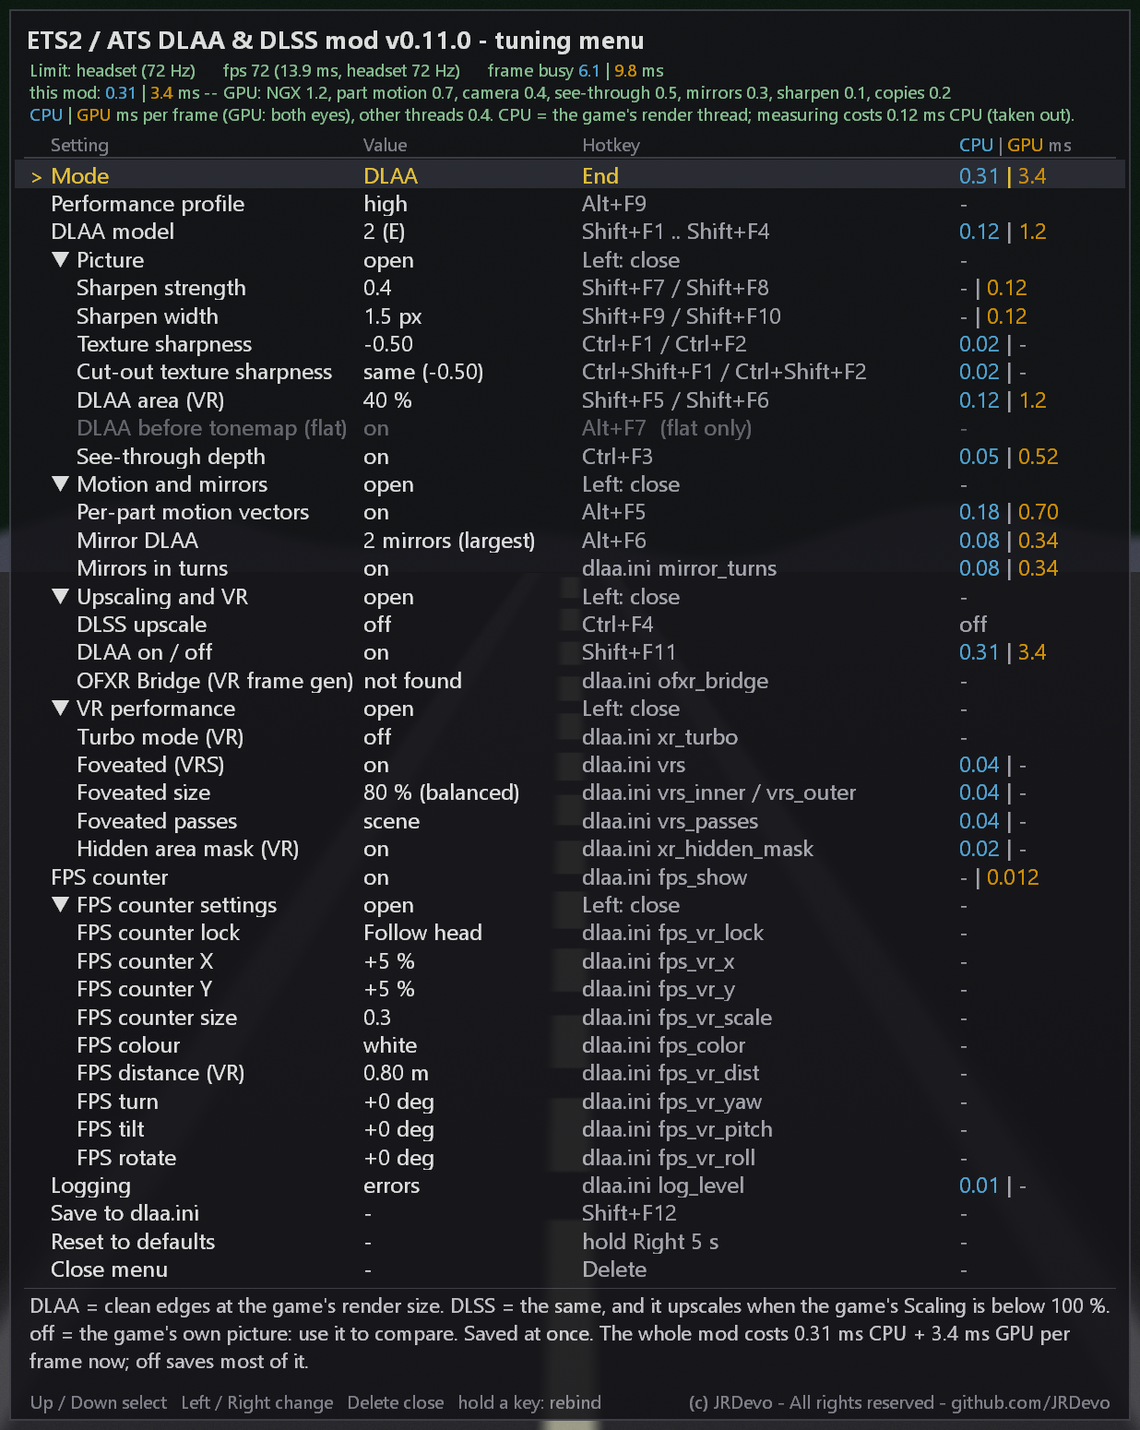
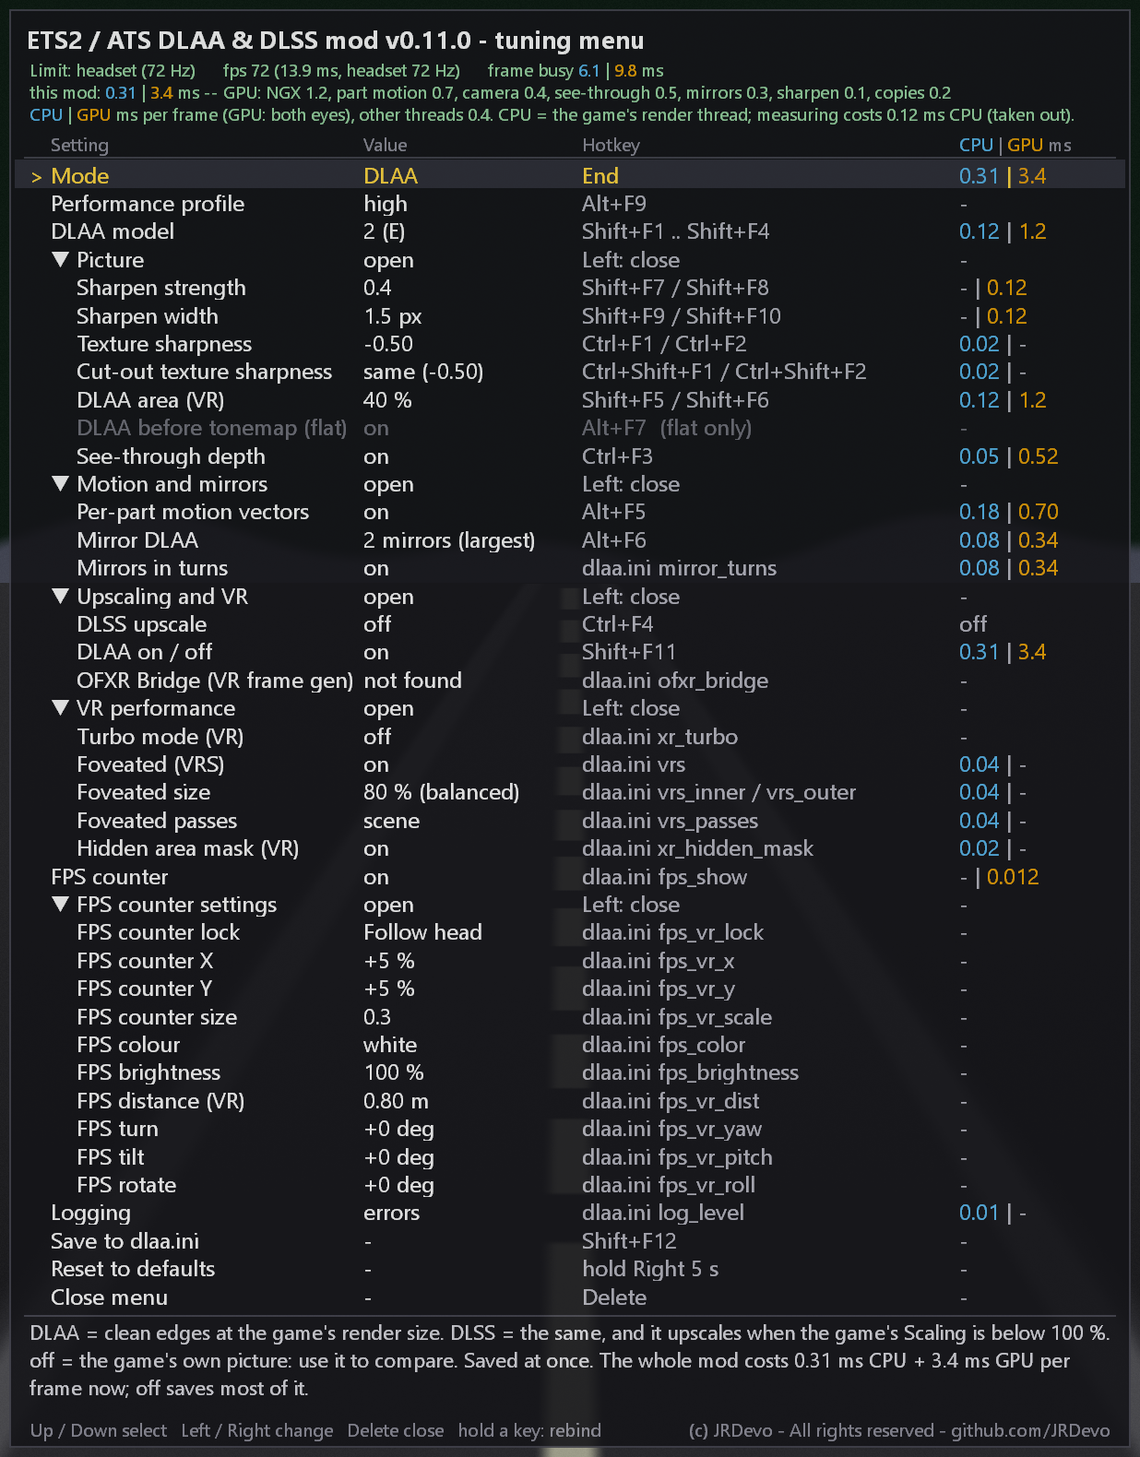
Phase 48: fps box brightness (fps_brightness 10..100 %)

diff --git a/src/inject.cpp b/src/inject.cpp
@@ -877,6 +877,7 @@ int      g_fpsVrLock = 0;
 // head-following box's extra stereo shift), fps_vr_yaw / fps_vr_pitch / fps_vr_roll (degrees: the VR box's own turn on top of
 // its normal facing; FpsPose::TurnQuat). The menu's FPS colour / distance / turn / tilt / rotate rows; saved with the fps_* keys.
 int      g_fpsColor = 0;
+int      g_fpsBright = FpsPose::kBrightDefault;   // phase 48: dlaa.ini fps_brightness 10..100 % (the colour * pct / 100)
 int      g_fpsVrDist = FpsPose::kDistDefault;
 int      g_fpsVrYaw = 0, g_fpsVrPitch = 0, g_fpsVrRoll = 0;
 bool     g_fpsExplicit = false;          // an fps_* value was changed in the menu -> SaveSettings writes the 13 fps_* keys
@@ -2906,6 +2907,7 @@ void SaveSettings(uint64_t n) {
         snprintf(add("fps_vr_scale"), sizeof(kv[0].val), "%.1f", (double)g_fpsVrScale);
         snprintf(add("fps_vr_lock"), sizeof(kv[0].val), "%d", g_fpsVrLock);   // v0.10.3 phase 28
         snprintf(add("fps_color"), sizeof(kv[0].val), "%d", g_fpsColor);      // phase 44
+        snprintf(add("fps_brightness"), sizeof(kv[0].val), "%d", g_fpsBright);   // phase 48
         snprintf(add("fps_vr_dist"), sizeof(kv[0].val), "%d", g_fpsVrDist);
         snprintf(add("fps_vr_yaw"), sizeof(kv[0].val), "%d", g_fpsVrYaw);
         snprintf(add("fps_vr_pitch"), sizeof(kv[0].val), "%d", g_fpsVrPitch);
@@ -2939,12 +2941,12 @@ void SaveSettings(uint64_t n) {
         snprintf(menuW, sizeof(menuW), " -- menu panel: menu_x=%d menu_y=%d menu_scale=%.1f menu_vr_x=%d menu_vr_y=%d menu_vr_scale=%.1f "
                  "menu_vr_depth=%d menu_vr_dist=%d menu_vr_face=%d", g_menuX, g_menuY, (double)g_menuScale, g_menuVrX, g_menuVrY,
                  (double)g_menuVrScale, g_menuVrDepth, g_menuVrDist, g_menuVrFace);
-    char fpsW[288] = "";                                  // (phase 44: was 160, + fps_color / fps_vr_dist / the turn)
+    char fpsW[320] = "";                                  // (phase 44: was 160, + fps_color / fps_vr_dist / the turn)
     if (g_fpsExplicit)
         snprintf(fpsW, sizeof(fpsW), " -- fps box: fps_show=%d fps_x=%d fps_y=%d fps_scale=%.1f fps_vr_x=%d fps_vr_y=%d fps_vr_scale=%.1f "
-                 "fps_vr_lock=%d fps_color=%d (%ls) fps_vr_dist=%d fps_vr_yaw=%d fps_vr_pitch=%d fps_vr_roll=%d", g_fpsShow ? 1 : 0,
+                 "fps_vr_lock=%d fps_color=%d (%ls) fps_brightness=%d fps_vr_dist=%d fps_vr_yaw=%d fps_vr_pitch=%d fps_vr_roll=%d", g_fpsShow ? 1 : 0,
                  g_fpsX, g_fpsY, (double)g_fpsScale, g_fpsVrX, g_fpsVrY, (double)g_fpsVrScale, g_fpsVrLock, g_fpsColor,
-                 FpsPose::ColorOf(g_fpsColor).name, g_fpsVrDist, g_fpsVrYaw, g_fpsVrPitch, g_fpsVrRoll);
+                 FpsPose::ColorOf(g_fpsColor).name, g_fpsBright, g_fpsVrDist, g_fpsVrYaw, g_fpsVrPitch, g_fpsVrRoll);
     char notW[128];
     snprintf(notW, sizeof(notW), "%s%s%s%s%s", g_profExplicit[PK_PRESET] ? "" : " dlss_preset", g_profExplicit[PK_AREA] ? "" : " dlaa_area",
              g_profExplicit[PK_MIRROR_DLAA] ? "" : " mirror_dlaa", mirVrW ? "" : " mirror_vr_mode", mirFlatW ? "" : " mirror_flat_mode");
@@ -15327,6 +15329,7 @@ enum MenuRowId {
     MR_FPSLOCK,                                           // v0.10.3 phase 28: VR fps box follows the head / fixed in the cab
     MR_FPSX, MR_FPSY, MR_FPSSIZE,
     MR_FPSCOLOR,                                          // phase 44: fps box colour (dlaa.ini fps_color)
+    MR_FPSBRIGHT,                                         // phase 48: fps box brightness (dlaa.ini fps_brightness)
     MR_FPSDIST,                                           // phase 44: VR distance (dlaa.ini fps_vr_dist)
     MR_FPSYAW, MR_FPSPITCH, MR_FPSROLL,                   // phase 44: VR turn / tilt / rotate (dlaa.ini fps_vr_yaw / _pitch / _roll)
     MR_LOG,                                               // phase 39: Logging (dlaa.ini log_level) + what logging costs
@@ -15343,7 +15346,7 @@ constexpr MenuGroupDef kMenuGroups[] = {
     { MR_UPGRP,    MR_OFXR,     L"Upscaling and VR" },
     { MR_VRPGRP,   MR_HMASK,    L"VR performance" },
     { MR_PANELGRP, MR_MENUKEYS, L"Panel settings" },
-    { MR_FPSGRP,   MR_FPSROLL,  L"FPS counter settings" },     // phase 44: last row MR_FPSSIZE -> MR_FPSROLL
+    { MR_FPSGRP,   MR_FPSROLL,  L"FPS counter settings" },     // phase 44: last row MR_FPSSIZE -> MR_FPSROLL (phase 48: + FPS brightness inside)
 };
 constexpr int kMenuGroupCount = (int)(sizeof(kMenuGroups) / sizeof(kMenuGroups[0]));
 static_assert(MR_PICGRP + 1 == MR_SHARP && MR_FWD + 1 == MR_MOTGRP && MR_MOTGRP + 1 == MR_DRAWIDS && MR_MIRTURNS + 1 == MR_UPGRP &&
@@ -15355,7 +15358,7 @@ static_assert(MR_SHARP < MR_WIDTH && MR_WIDTH < MR_LOD && MR_LOD < MR_LODCUT && 
               MR_TURBO < MR_VRS && MR_VRS < MR_VRSSIZE && MR_VRSSIZE < MR_VRSPASS && MR_VRSPASS < MR_HMASK &&
               MR_POSX < MR_POSY && MR_POSY < MR_SIZE && MR_SIZE < MR_DEPTH && MR_DEPTH < MR_FACE && MR_FACE < MR_MENUKEYS &&
               MR_FPSLOCK < MR_FPSX && MR_FPSX < MR_FPSY && MR_FPSY < MR_FPSSIZE && MR_FPSSIZE < MR_FPSCOLOR &&
-              MR_FPSCOLOR < MR_FPSDIST && MR_FPSDIST < MR_FPSYAW && MR_FPSYAW < MR_FPSPITCH && MR_FPSPITCH < MR_FPSROLL,
+              MR_FPSCOLOR < MR_FPSBRIGHT && MR_FPSBRIGHT < MR_FPSDIST && MR_FPSDIST < MR_FPSYAW && MR_FPSYAW < MR_FPSPITCH && MR_FPSPITCH < MR_FPSROLL,
               "tuning menu: group children out of order");
 const wchar_t* const kMenuDesc[] = {
     // v0.10.0: every row = what it does, when a player would change it, what it costs. The panel shows 3 lines of about 105
@@ -15450,6 +15453,8 @@ const wchar_t* const kMenuDesc[] = {
     // phase 44 (MR_FPSCOLOR, MR_FPSDIST, MR_FPSYAW, MR_FPSPITCH, MR_FPSROLL)
     L"The colour of the fps box's text: 20 colours, each with an outline so it reads on any picture (black on white = dark text, "
     L"white outline). Flat and VR. No cost.",
+    L"How bright the fps box is, 10 - 100 %: 100 = the colour as it is, lower dims the text (the outline stays) toward black. Use it "
+    L"to tone the counter down at night or in the headset. Flat and VR. No cost.",
     L"VR only, so greyed in flat. How far away the fps box floats, 0.30 - 3.00 m. It keeps the same size in your view at every "
     L"distance; only the depth changes. Put it near the depth you look at to read it without refocusing. No cost.",
     L"VR only, so greyed in flat. Turns the fps box left / right on itself, in degrees (+ = its face turns to the right). Use it "
@@ -15498,7 +15503,7 @@ float g_menuVrBuild = 0.0f;                               // VR: panel scale of 
 float g_fpsVrBuild  = 0.0f;                               // VR: fps box scale of eye 0 (the same for the box; 0 = none yet)
 // phase 44: the fps box colours (fps_color) into the widget cache before each DrawWidget (a compare there; a change rebuilds once)
 inline void FpsSyncColor() {
-    const FpsPose::Color& c = FpsPose::ColorOf(g_fpsColor);
+    const FpsPose::Color c = FpsPose::Dimmed(FpsPose::ColorOf(g_fpsColor), g_fpsBright);   // phase 48: + brightness (the widget cache compares the colours)
     TuningMenu::SetWidgetColors(c.tr, c.tg, c.tb, c.lr, c.lg, c.lb);
 }
 bool  g_fpsMoved    = false;                              // an fps box row changed since the menu was opened (close line)
@@ -15834,6 +15839,7 @@ void ResetSettings(uint64_t n) {
     g_fpsVrX = 0; g_fpsVrY = -25; g_fpsVrScale = kFpsVrScaleDefault;
     g_fpsVrLock = 0;                                      // v0.10.3 phase 28: follows the headset again
     g_fpsColor = 0;                                       // phase 44: white, 0.8 m, not turned
+    g_fpsBright = FpsPose::kBrightDefault;                // phase 48
     g_fpsVrDist = FpsPose::kDistDefault;
     g_fpsVrYaw = g_fpsVrPitch = g_fpsVrRoll = 0;
     FpsVrLockReset();
@@ -15871,6 +15877,7 @@ void ResetSettings(uint64_t n) {
         "menu_vr_dist",                                                                                 // phase 29b
         "fps_show", "fps_x", "fps_y", "fps_scale", "fps_vr_x", "fps_vr_y", "fps_vr_scale", "fps_vr_lock",   // phase 28: + fps_vr_lock
         "fps_color", "fps_vr_dist", "fps_vr_yaw", "fps_vr_pitch", "fps_vr_roll",                        // phase 44
+        "fps_brightness",                                                                               // phase 48
         "xr_turbo",                                                                                     // phase 30
         "vrs", "vrs_inner", "vrs_outer",                                                                // phase 34
         "vrs_passes",                                                                                   // phase 42
@@ -15891,7 +15898,7 @@ void ResetSettings(uint64_t n) {
             "perf_profile = high mv_fwd_depth = 1 menu_x = 2 menu_y = 8 "
             "menu_scale = 1.0 menu_vr_x = 0 menu_vr_y = -5 menu_vr_scale = 1.0 menu_vr_depth = 12 menu_vr_dist = 100 menu_vr_face = 1 "
             "fps_show = 0 "
-            "fps_x = 1 fps_y = 1 fps_scale = 1.0 fps_vr_x = 0 fps_vr_y = -25 fps_vr_scale = %.1f fps_vr_lock = 0 fps_color = 0 (white) fps_vr_dist = 80 fps_vr_yaw = 0 fps_vr_pitch = 0 fps_vr_roll = 0 xr_turbo = 0 vrs = 0 vrs_inner = 55 vrs_outer = 80 vrs_passes = 0 xr_hidden_mask = 0 log_level = %d (%s) -- profile: %s -- "
+            "fps_x = 1 fps_y = 1 fps_scale = 1.0 fps_vr_x = 0 fps_vr_y = -25 fps_vr_scale = %.1f fps_vr_lock = 0 fps_color = 0 (white) fps_brightness = 100 fps_vr_dist = 80 fps_vr_yaw = 0 fps_vr_pitch = 0 fps_vr_roll = 0 xr_turbo = 0 vrs = 0 vrs_inner = 55 vrs_outer = 80 vrs_passes = 0 xr_hidden_mask = 0 log_level = %d (%s) -- profile: %s -- "
             "dlaa.ini: %d keys removed (hotkeys and other lines kept)", (unsigned long long)n, g_dlaaOn.load() ? "DLSS" : "off",
             (double)kFpsVrScaleDefault, LogLevel(), g_logDebugKey ? "no key: debug = 1 in dlaa.ini" : "no key", changed, kNKeys);
         BeepSeq b;                                        // success: rising two-tone 600 -> 900 Hz, 120 ms each (as SaveSettings)
@@ -17181,6 +17188,8 @@ void MenuBuildPanel(TuningMenu::Panel& p) {
     // phase 44: colour (flat and VR), VR distance and the VR turn
     MenuRow(p, MR_FPSCOLOR, L"FPS colour", "dlaa.ini fps_color", nullptr, false);
     swprintf(p.rows[MR_FPSCOLOR].value, kV, L"%ls", FpsPose::ColorOf(g_fpsColor).name);
+    MenuRow(p, MR_FPSBRIGHT, L"FPS brightness", "dlaa.ini fps_brightness", nullptr, false);   // phase 48
+    swprintf(p.rows[MR_FPSBRIGHT].value, kV, L"%d %%", g_fpsBright);
     MenuRow(p, MR_FPSDIST, L"FPS distance (VR)", "dlaa.ini fps_vr_dist", vr ? nullptr : "VR only", !vr);
     swprintf(p.rows[MR_FPSDIST].value, kV, L"%.2f m", (double)g_fpsVrDist / 100.0);
     MenuRow(p, MR_FPSYAW, L"FPS turn", "dlaa.ini fps_vr_yaw", vr ? nullptr : "VR only", !vr);
@@ -17377,6 +17386,11 @@ void MenuChange(int row, int dir, bool repeat, uint64_t n) {
         g_fpsExplicit = g_fpsMoved = true;
         Log("fps box colour: %d = %ls (fps_color, tuning menu, Present #%llu)", g_fpsColor, FpsPose::ColorOf(g_fpsColor).name,
             (unsigned long long)n);
+        break;
+    case MR_FPSBRIGHT:                                      // phase 48: 10 % steps, live (a fresh press each: not a stepRow)
+        g_fpsBright = FpsPose::StepBright(g_fpsBright, dir);
+        g_fpsExplicit = g_fpsMoved = true;
+        Log("fps box brightness: %d %% (fps_brightness, tuning menu, Present #%llu)", g_fpsBright, (unsigned long long)n);
         break;
     case MR_FPSDIST:                                        // phase 44: 5 cm steps (also flat: kept for VR; the row is greyed)
         g_fpsVrDist = FpsPose::ClampI(g_fpsVrDist + 5 * dir, FpsPose::kDistMin, FpsPose::kDistMax);
@@ -20244,6 +20258,7 @@ void LoadConfig() {
             if (!strcmp(key, "vrs_passes"))         { g_vrsPasses = v != 0 ? 1 : 0; g_vrsPassesExplicit = true; continue; }   // phase 42
             // phase 44: the fps box colour / VR distance / VR turn (outside the else-if chain: C1061)
             if (!strcmp(key, "fps_color"))          { g_fpsColor = FpsPose::ClampColor(v); continue; }
+            if (!strcmp(key, "fps_brightness"))     { g_fpsBright = FpsPose::ClampBright(v); continue; }   // phase 48
             if (!strcmp(key, "fps_vr_dist"))        { g_fpsVrDist = FpsPose::ClampI(v, FpsPose::kDistMin, FpsPose::kDistMax); continue; }
             if (!strcmp(key, "fps_vr_yaw"))         { g_fpsVrYaw = FpsPose::ClampI(v, -FpsPose::kYawMax, FpsPose::kYawMax); continue; }
             if (!strcmp(key, "fps_vr_pitch"))       { g_fpsVrPitch = FpsPose::ClampI(v, -FpsPose::kPitchMax, FpsPose::kPitchMax); continue; }
@@ -20702,14 +20717,14 @@ void LoadConfig() {
                         "(menu_vr_depth / menu_vr_face; menu_vr_dist unused)",
         g_bindHoldMs);
     Log("fps box (v0.10.0): fps_show=%d (%s), flat fps_x=%d fps_y=%d fps_scale=%.1f, VR fps_vr_x=%d fps_vr_y=%d fps_vr_scale=%.1f "
-        "fps_vr_lock=%d (%s); phase 44: fps_color=%d (%ls) fps_vr_dist=%d cm fps_vr_yaw=%d fps_vr_pitch=%d fps_vr_roll=%d deg (the "
+        "fps_vr_lock=%d (%s); phase 44: fps_color=%d (%ls) fps_brightness=%d %% fps_vr_dist=%d cm fps_vr_yaw=%d fps_vr_pitch=%d fps_vr_roll=%d deg (the "
         "tuning menu's FPS counter rows change them)", g_fpsShow ? 1 : 0,
         g_fpsShow ? "on: shown also while the menu is closed" : "off", g_fpsX, g_fpsY, (double)g_fpsScale, g_fpsVrX, g_fpsVrY,
         (double)g_fpsVrScale, g_fpsVrLock, g_fpsVrLock == 2 ? "VR: ATTACHED TO THE VEHICLE (phase 47: drawn in, placed from a cab "
                                                          "draw's MVP on the GPU), fps_vr_x / fps_vr_y = yaw / pitch degrees at "
                                                          "fps_vr_dist at the lock-on" : g_fpsVrLock ? "VR: fixed in the play space, "
                                                          "fps_vr_x / fps_vr_y = yaw / pitch degrees at fps_vr_dist" : "VR: follows the headset",
-        g_fpsColor, FpsPose::ColorOf(g_fpsColor).name, g_fpsVrDist, g_fpsVrYaw, g_fpsVrPitch, g_fpsVrRoll);
+        g_fpsColor, FpsPose::ColorOf(g_fpsColor).name, g_fpsBright, g_fpsVrDist, g_fpsVrYaw, g_fpsVrPitch, g_fpsVrRoll);
     // v0.10.0 phase 6b: the vote participation of instanced / no-MVP draws follows mv_drawid_instanced (default 1, even when the
     // key is absent) -- set it here, after the whole ini is parsed, so both the replay and the vote agree.
     DrawIdMv::SetInstanced(g_didInstancedCfg);

diff --git a/tests/fps_pose_test.cpp b/tests/fps_pose_test.cpp
@@ -36,6 +36,25 @@ int main() {
         CHECK(StepColor(19, 1) == 0 && StepColor(0, -1) == 19 && StepColor(5, 1) == 6, "StepColor wraps");
         CHECK(ClampColor(-1) == 0 && ClampColor(25) == 19 && ClampColor(7) == 7, "ClampColor");
     }
+    // ---- brightness (phase 48)
+    {
+        CHECK(ClampBright(0) == 10 && ClampBright(5) == 10 && ClampBright(55) == 55 && ClampBright(500) == 100, "ClampBright 10..100");
+        CHECK(StepBright(100, 1) == 100 && StepBright(100, -1) == 90 && StepBright(10, -1) == 10 && StepBright(10, 1) == 20, "StepBright 10 %% steps, clamped");
+        for (int i = 0; i < kColorCount; ++i) {
+            const Color& c = ColorOf(i);
+            const Color d = Dimmed(c, 100);
+            CHECK(d.tr == c.tr && d.tg == c.tg && d.tb == c.tb && d.lr == c.lr && d.lg == c.lg && d.lb == c.lb, "preset %d: 100 %% = unchanged", i);
+            const Color h = Dimmed(c, 50);
+            CHECK(i == 19 || (h.lr == c.lr && h.lg == c.lg && h.lb == c.lb), "preset %d: the outline stays", i);
+            const Color m = Dimmed(c, 10);
+            CHECK(i == 19 || (m.tr <= (c.tr + 9) / 10 + 1 && m.tg <= (c.tg + 9) / 10 + 1 && m.tb <= (c.tb + 9) / 10 + 1), "preset %d: 10 %% is dark", i);
+        }
+        const Color w = Dimmed(ColorOf(0), 50);
+        CHECK(w.tr == 128 && w.tg == 128 && w.tb == 128, "white at 50 %% = 128, got %d", w.tr);
+        const Color bw = Dimmed(ColorOf(19), 50);
+        CHECK(bw.tr == 16 && bw.lr == 128 && bw.lg == 128 && bw.lb == 128, "black on white: the white outline dims, text stays");
+        CHECK(Dimmed(ColorOf(2), 10).tr == 26 && Dimmed(ColorOf(2), 10).tg == 19 && Dimmed(ColorOf(2), 10).tb == 0, "amber at 10 %%");
+    }
     // ---- turn quaternion conventions
     {
         double q[4];

diff --git a/src/fps_pose.h b/src/fps_pose.h
@@ -48,6 +48,21 @@ inline const Color& ColorOf(int i) {
 inline int ClampColor(long long v) { return v < 0 ? 0 : (v >= kColorCount ? kColorCount - 1 : (int)v); }
 inline int StepColor(int cur, int dir) { return ((cur + dir) % kColorCount + kColorCount) % kColorCount; }   // wraps
 
+// ---- brightness (fps_brightness 10..100 %, phase 48) ---------------------------------------------------------------------
+// The box dims toward black: the glyph colour * pct / 100. A preset whose outline is LIGHTER than its text (19, black on white)
+// dims the outline instead, so the box still gets dimmer. 100 = the preset as it is.
+constexpr int kBrightMin = 10, kBrightMax = 100, kBrightDefault = 100, kBrightStep = 10;
+inline int ClampBright(long long v) { return v < kBrightMin ? kBrightMin : (v > kBrightMax ? kBrightMax : (int)v); }
+inline int StepBright(int cur, int dir) { return ClampBright((long long)cur + (long long)kBrightStep * dir); }
+inline uint8_t DimByte(int v, int pct) { return (uint8_t)((v * ClampBright(pct) + 50) / 100); }
+inline Color Dimmed(const Color& c, int pct) {
+    Color o = c;
+    const int lt = c.tr + c.tg + c.tb, ll = c.lr + c.lg + c.lb;
+    if (ll > lt) { o.lr = DimByte(c.lr, pct); o.lg = DimByte(c.lg, pct); o.lb = DimByte(c.lb, pct); }
+    else         { o.tr = DimByte(c.tr, pct); o.tg = DimByte(c.tg, pct); o.tb = DimByte(c.tb, pct); }
+    return o;
+}
+
 // ---- ini ranges --------------------------------------------------------------------------------------------------------
 constexpr int kDistMin = 30, kDistMax = 300, kDistDefault = 80;   // fps_vr_dist, cm (80 = the phase 28 0.8 m)
 constexpr int kYawMax = 90, kPitchMax = 90, kRollMax = 180;       // degrees, symmetric

diff --git a/tests/menu_shot.cpp b/tests/menu_shot.cpp
@@ -87,6 +87,7 @@ static const E kRows[] = {
     { G_FPSG, false, L"FPS counter Y", L"+5 %", L"dlaa.ini fps_vr_y", L"", false, nullptr, nullptr },
     { G_FPSG, false, L"FPS counter size", L"0.3", L"dlaa.ini fps_vr_scale", L"", false, nullptr, nullptr },
     { G_FPSG, false, L"FPS colour", L"white", L"dlaa.ini fps_color", L"", false, nullptr, nullptr },
+    { G_FPSG, false, L"FPS brightness", L"100 %", L"dlaa.ini fps_brightness", L"", false, nullptr, nullptr },
     { G_FPSG, false, L"FPS distance (VR)", L"0.80 m", L"dlaa.ini fps_vr_dist", L"", false, nullptr, nullptr },
     { G_FPSG, false, L"FPS turn", L"+0 deg", L"dlaa.ini fps_vr_yaw", L"", false, nullptr, nullptr },
     { G_FPSG, false, L"FPS tilt", L"+0 deg", L"dlaa.ini fps_vr_pitch", L"", false, nullptr, nullptr },

diff --git a/src/menu.h b/src/menu.h
@@ -21,7 +21,7 @@
 
 namespace TuningMenu {
 
-constexpr int   kMaxRows  = 47;                      // (was 24 before the 4 fps box rows, 26 before the Reset row, 27 before v0.10.2 Menu keys,
+constexpr int   kMaxRows  = 48;                      // (was 24 before the 4 fps box rows, 26 before the Reset row, 27 before v0.10.2 Menu keys,
                                                      //  28 before the v0.10.3 phase 28 FPS counter lock row, 29 before the phase 29c
                                                      //  group header rows, 31 before the phase 30 Turbo mode row, 32 before the
                                                      //  phase 34 Foveated rows, 34 before the phase 39 Logging row, 35 before the

diff --git a/README.md b/README.md
@@ -467,6 +467,8 @@ The three green lines under the title show the game's GPU time per frame, what t
     (`fps_color`, 0 = white).
 
     ![The 20 fps colours](docs/images/fps-counter-colours.png)
+  - **FPS brightness:** 10 - 100 % in 10 % steps (`fps_brightness`, default 100). Dims the colour toward black (the
+    outline stays; `black on white` dims its white outline instead). Flat and VR, live.
   - **FPS distance (VR):** how far away the box floats, 0.30 - 3.00 m (`fps_vr_dist` in cm, default 80). It keeps the
     same size in your view at every distance; only the depth changes.
   - **FPS turn / tilt / rotate (VR):** turn the box itself, in 5 degree steps: turn = left / right, tilt = lean it back
@@ -589,6 +591,7 @@ The table below lists the commonly used keys:
 | `fps_vr_x` / `fps_vr_y` / `fps_vr_scale` | `0` / `-25` / `0.3` | fps box, VR: centre offset from the eye's centre in % (`-50`..`50`, negative y = up), size `0.2`..`3.0` (1 = 8 % of the eye width) |
 | `fps_vr_lock` | `0` | fps box, VR (v0.10.3): `0` = follows the headset, `1` = fixed in the play space, `fps_vr_dist` from your seat; `fps_vr_x` / `fps_vr_y` are then degrees around you (+ = right / down). It does not follow the cab's sway. `2` = attached to the vehicle (phase 47): placed like `1` when picked, then it moves with the cab (needs DLAA + per-part motion vectors; otherwise it acts like `1`). The menu's `FPS counter lock` row switches it |
 | `fps_color` | `0` | fps box colour (phase 44): `0`..`19` = white, yellow, amber, orange, red, pink, magenta, purple, violet, blue, sky blue, cyan, teal, mint, green, lime, olive, gold, silver, black on white. The menu's `FPS colour` row |
+| `fps_brightness` | `100` | fps box brightness in % (phase 48): `10`..`100`, 100 = the colour as it is, lower dims it toward black. The menu's `FPS brightness` row |
 | `fps_vr_dist` | `80` | fps box, VR (phase 44): distance in cm (`30`..`300`), same angular size at every distance. The menu's `FPS distance (VR)` row |
 | `fps_vr_yaw` / `fps_vr_pitch` / `fps_vr_roll` | `0` / `0` / `0` | fps box, VR (phase 44): the box's own turn in degrees: yaw `-90`..`90` (+ = its face turns right), pitch `-90`..`90` (+ = its top leans away), roll `-180`..`180` (+ = clockwise). The menu's `FPS turn` / `FPS tilt` / `FPS rotate` rows (5 degree steps) |
 | `xr_turbo` | `0` | VR: `1` = **Turbo mode** (from OpenXR Toolkit): the game no longer waits for the headset each frame, so it can start the next frame sooner. **It turns off the headset's frame smoothing**: ASW (Meta / Oculus), Motion Smoothing, Motion Reprojection (Windows Mixed Reality) and SSW (Virtual Desktop) cannot work with it. It helps only when the CPU is the limit (busy cities, heavy traffic); when the GPU is the limit it gains nothing. The menu's `Turbo mode (VR)` row switches it live, `Shift+F12` saves |

diff --git a/docs/DEVELOPMENT.md b/docs/DEVELOPMENT.md
@@ -1491,6 +1491,19 @@ is tonemapped), both tonemap into the SAME scene-size SRGB texture, then each is
   headset (the box should now ride the dashboard on bumps, braking and hills, in a car too); the logged cab sway figures;
   the fallback in the exterior camera / menus and the new lock after a truck change.
 
+### Phase 48: fps box brightness (`fps_brightness` 10..100 %)
+
+- `fps_brightness` (default 100 = the colour as it is). `FpsPose::Dimmed(ColorOf(g_fpsColor), g_fpsBright)` scales the glyph
+  colour by pct / 100 toward black (outline kept); a preset with a LIGHTER outline than text (19, black on white) scales the
+  outline instead, so the box still dims. `FpsSyncColor()` (inject.cpp) pushes the result into `SetWidgetColors` before every
+  `DrawWidget` -- flat, VR quad layer, VR drawn-in and phase 47 "Attached to vehicle" all go through it, and the widget texture
+  cache already compares the colours, so a change rebuilds once; no separate cache key.
+- Menu: row `FPS brightness` (`MR_FPSBRIGHT`, after `FPS colour`, Left / Right 10 % steps, fresh presses, live; Shift+F12 saves
+  with the other fps_* keys under `g_fpsExplicit`; Reset removes the key). `kMaxRows` 47 -> 48; the group's last row stays
+  `MR_FPSROLL`; 48 reset keys (cap 56). LoadConfig reads it as a standalone `if (...) { ...; continue; }` line (C1061).
+- Test: `tests/fps_pose_test.cpp` (clamp / step, 100 % unchanged for all 20 presets, outline kept, 50 % white = 128, preset 19
+  dims the outline, amber at 10 %).
+
 ### The RenderDoc oracle (done in v0.2)
 
 Capture a frame of the unmodified game to learn empirically: which pass writes
